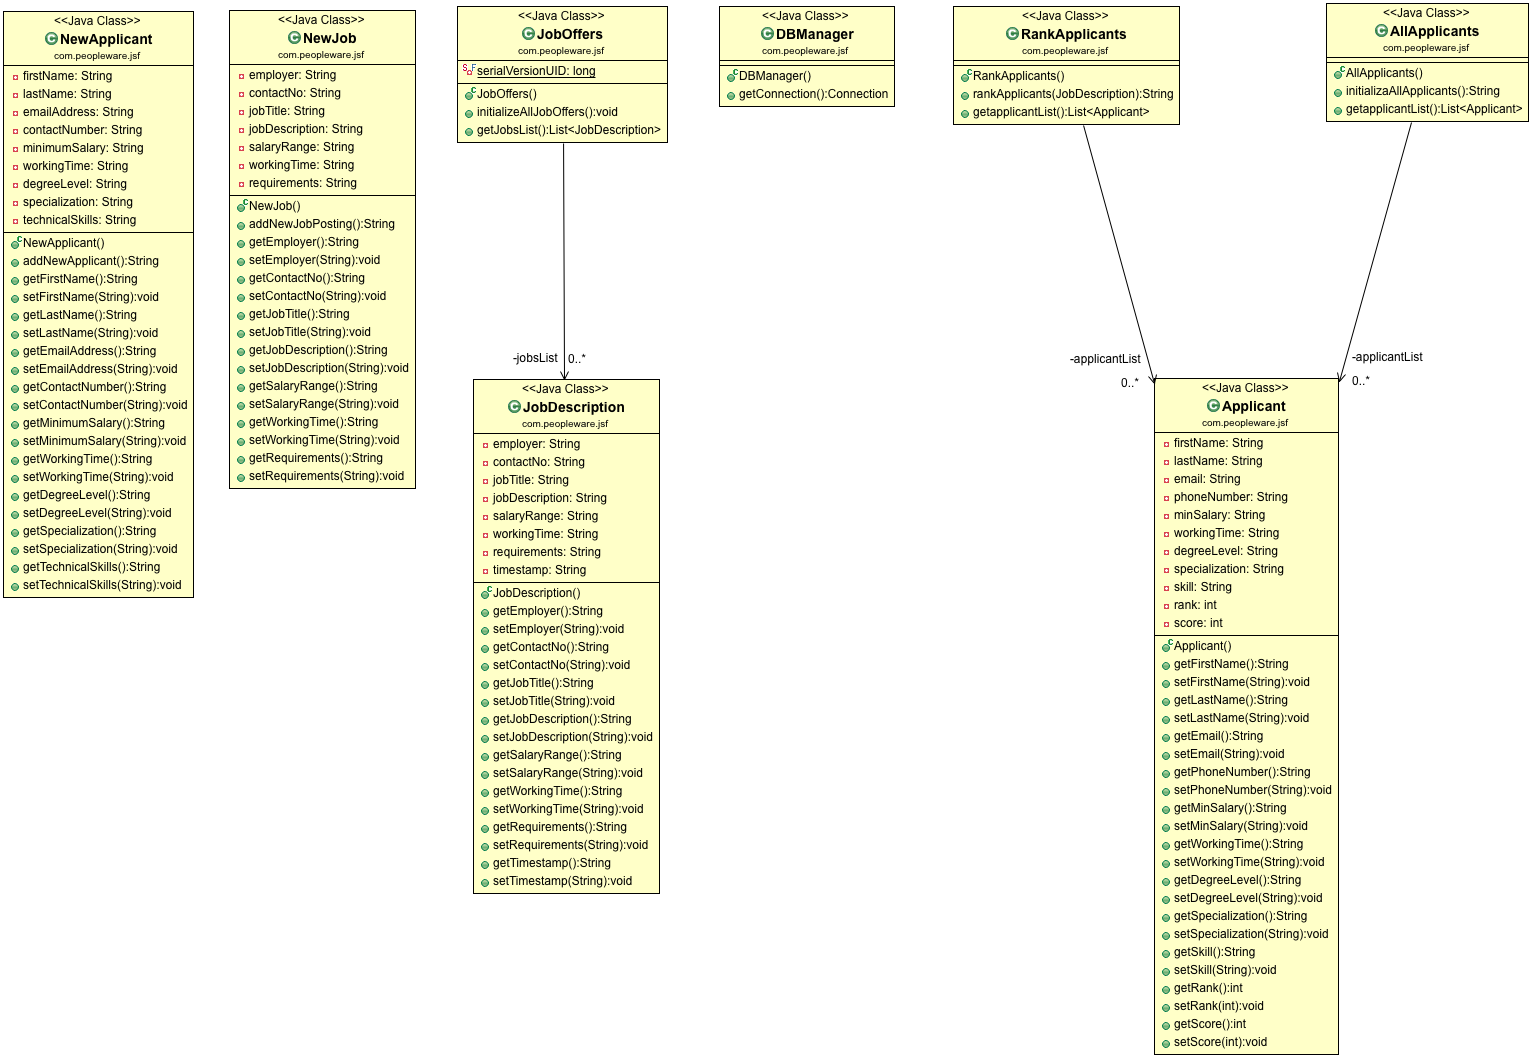
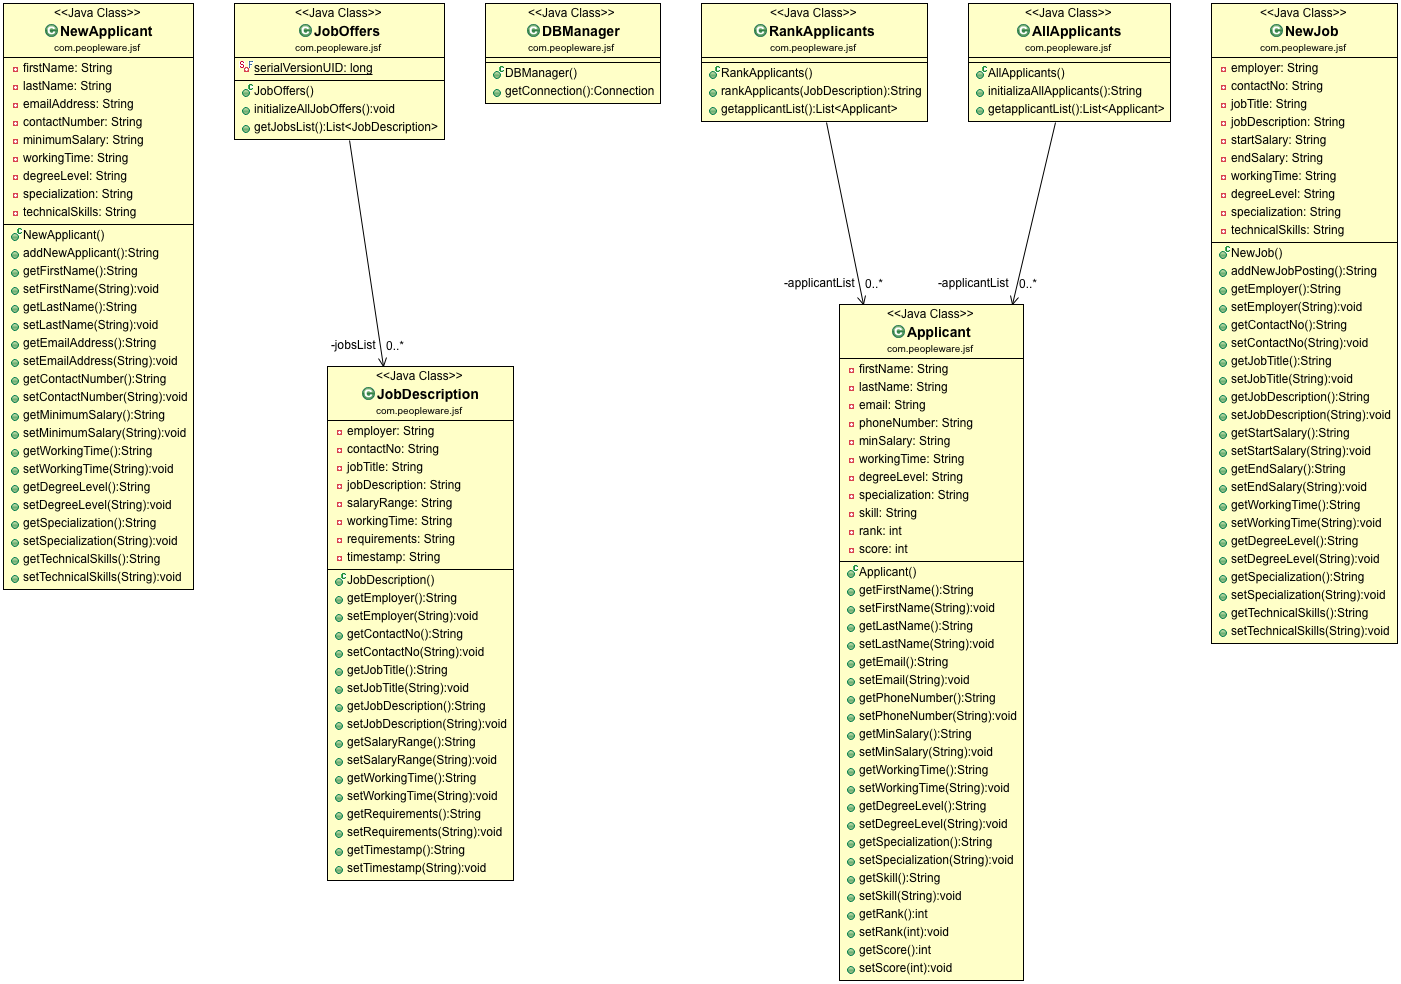
Made few changes in NewJob class and regenerated the UML class diagram

diff --git a/src/com/peopleware/jsf/NewJob.java b/src/com/peopleware/jsf/NewJob.java
@@ -24,9 +24,12 @@ public class NewJob {
 	private String contactNo;
 	private String jobTitle;
 	private String jobDescription;
-	private String salaryRange;
+	private String startSalary;
+	private String endSalary;
 	private String workingTime;
-	private String requirements;
+	private String degreeLevel;
+	private String specialization;
+	private String technicalSkills;;
 
 	/*
 	 * Constructor
@@ -52,8 +55,8 @@ public class NewJob {
 		try {
 			// Insertion SQL query
 			String query = "INSERT INTO jobposts "
-					+ "(employer_name, contact_number, job_title, job_description, salary_range, working_time, skills) "
-					+ "values (?, ?, ?, ?, ?, ?, ?)";
+					+ "(employer_name, contact_number, job_title, job_description, salary_range, working_time, skills, degree) "
+					+ "values (?, ?, ?, ?, ?, ?, ?, ?)";
 
 			// Prepare the statement and execute the query
 			PreparedStatement stm = conn.prepareStatement(query);
@@ -61,9 +64,10 @@ public class NewJob {
 			stm.setString(2, contactNo);
 			stm.setString(3, jobTitle);
 			stm.setString(4, jobDescription);
-			stm.setString(5, salaryRange);
+			stm.setString(5, startSalary + " - " + endSalary);
 			stm.setString(6, workingTime);
-			stm.setString(7, requirements);
+			stm.setString(7, technicalSkills);
+			stm.setString(8, degreeLevel + " in " + specialization);
 
 			stm.executeUpdate();
 
@@ -81,9 +85,12 @@ public class NewJob {
 		contactNo = null;
 		jobTitle = null;
 		jobDescription = null;
-		salaryRange = null;
+		startSalary = null;
+		endSalary = null;
 		workingTime = null;
-		requirements = null;
+		degreeLevel = null;
+		specialization = null;
+		technicalSkills = null;
 
 		// Redirect back to the employers.xhtml page
 		return "employers.xhtml?faces-redirect=true";
@@ -123,13 +130,21 @@ public class NewJob {
 	public void setJobDescription(String jobDescription) {
 		this.jobDescription = jobDescription;
 	}
-
-	public String getSalaryRange() {
-		return salaryRange;
+	
+	public String getStartSalary() {
+		return startSalary;
 	}
 
-	public void setSalaryRange(String salaryRange) {
-		this.salaryRange = salaryRange;
+	public void setStartSalary(String startSalary) {
+		this.startSalary = startSalary;
+	}
+
+	public String getEndSalary() {
+		return endSalary;
+	}
+
+	public void setEndSalary(String endSalary) {
+		this.endSalary = endSalary;
 	}
 
 	public String getWorkingTime() {
@@ -140,12 +155,28 @@ public class NewJob {
 		this.workingTime = workingTime;
 	}
 
-	public String getRequirements() {
-		return requirements;
+	public String getDegreeLevel() {
+		return degreeLevel;
 	}
 
-	public void setRequirements(String requirements) {
-		this.requirements = requirements;
+	public void setDegreeLevel(String degreeLevel) {
+		this.degreeLevel = degreeLevel;
+	}
+
+	public String getSpecialization() {
+		return specialization;
+	}
+
+	public void setSpecialization(String specialization) {
+		this.specialization = specialization;
+	}
+
+	public String getTechnicalSkills() {
+		return technicalSkills;
+	}
+
+	public void setTechnicalSkills(String technicalSkills) {
+		this.technicalSkills = technicalSkills;
 	}
 
 }
